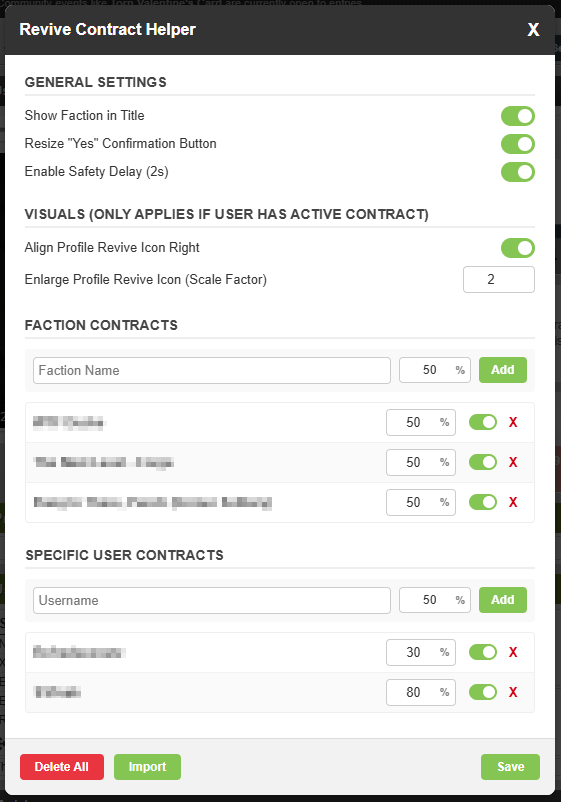
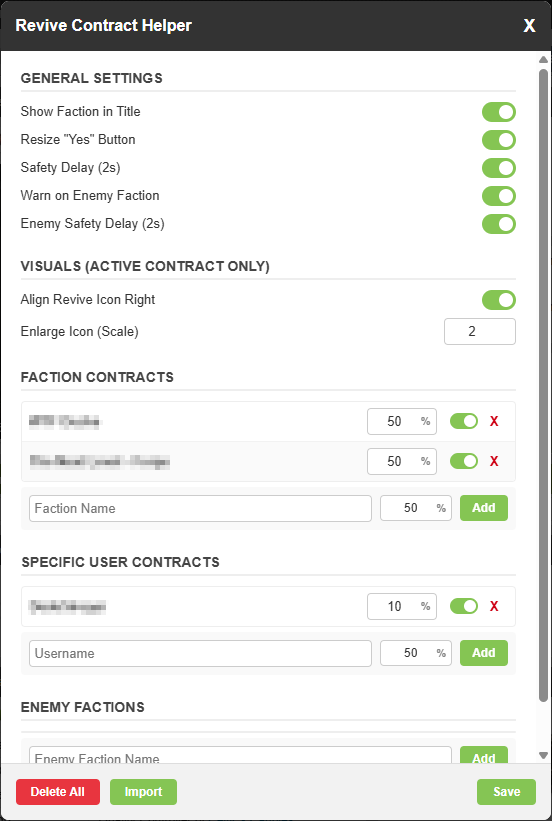
adds Enemys to Revive Contract Helper

Changed region(s): [[0.0, 0.0, 1.0, 1.0], [0.7391, 0.4364, 0.7699, 0.4676]]

diff --git a/revive-contract-helper/README.md b/revive-contract-helper/README.md
@@ -1,6 +1,6 @@
 # Revive Contract Helper (RCH)
 
-A Tampermonkey script for Torn designed for revivers. RCH helps you manage revive contracts, prevents accidental revives below the contracted percentage, and optimizes the UI for faster, misclick-free reviving.
+A Tampermonkey script for Torn designed for revivers. RCH helps you manage revive contracts, prevents accidental revives below the contracted percentage or on enemy targets, and optimizes the UI for faster, misclick-free reviving.
 
 ## Installation
 
@@ -9,16 +9,18 @@ A Tampermonkey script for Torn designed for revivers. RCH helps you manage reviv
 ## Features
 
 * **Smart Revive Protection:** Automatically hides the "Yes" button if the target's revive chance is below their contract limit or if early discharge is available.
-* **Granular Contracts:** Set specific minimum chances for entire Factions or individual Users (User contracts override Faction contracts).
+* **Enemy Detection:** Get warned before accidentally reviving members of an enemy faction with an optional safety delay to prevent fast-clicking mistakes.
+* **Granular Contracts:** Set specific minimum chances for entire Factions or individual Users (User contracts override Faction contracts). Track Enemy Factions to avoid reviving them.
 * **Speed-Optimized UI:** Optionally enlarge the Revive icon on profiles and the "Yes" confirmation button to make speed-clicking easier.
-* **Discord Import:** Mass-import weekly contracts directly from Discord announcements (specific message format required).
+* **Discord Import:** Mass-import weekly contracts directly from Discord announcements. The parser automatically detects both contracted factions and enemy factions.
 
 ## How It Works
 
-Once you add contracts in the settings, the script monitors the revive confirmation popup:
+Once you add contracts or enemies in the settings, the script monitors the revive confirmation popup:
 
 * **Valid Revive (Chance >= Contract):** The "No" button is hidden. The "Yes" button is enlarged (if enabled) so you can click blindly without missing.
 * **Invalid Revive (Chance < Contract):** The confirmation buttons are hidden and a warning is displayed.
+* **Enemy Detected:** If the target belongs to a faction on your Enemies list, a big "ENEMY FACTION DETECTED!" warning is displayed.
 
 ### Enlarged Profile Revive Icon
 You can choose to scale up the revive action icon directly on a player's profile and snap it to the right side. This visual boost only triggers if the player is part of an active contract, helping you spot and click valid targets instantly.
@@ -31,7 +33,7 @@ To speed up your reviving process, the script can resize the "Yes" confirmation 
 ![Giant Yes Button](img/bigger_yes_button.png)
 
 ### The Override Button
-If you hit a target below their contract but want to revive them anyway, you can click the **Override Contract** button. By default, this button has a **2-second safety delay** to prevent accidental double-clicks during fast reviving.
+If you hit a target below their contract (or an enemy) but want to revive them anyway, you can click the **Override Warning** button. By default, this button has a **2-second safety delay** to prevent accidental double-clicks during fast reviving.
 
 ![Revive Blocked Warning](img/revive_block_warning.png) 
 
@@ -45,15 +47,17 @@ To open the RCH settings, click the **red medical bag icon** in the top of any p
 ![Settings Modal](img/settings_modal.png)
 * **Show Faction in Title:** Copies the target's faction name directly under their username in the profile header. Click the text to quickly copy it.
 * **Resize "Yes" Confirmation Button:** Makes the "Yes" button huge when the revive is valid.
-* **Enable Safety Delay (2s):** Adds a 2-second cooldown to the Override button to prevent accidental misclicks.
+* **Enable Safety Delay (2s):** Adds a 2-second cooldown to the Override button to prevent accidental misclicks on contracted targets.
+* **Warn on Enemy Faction:** Displays a prominent warning if you try to revive someone from a faction on your Enemy list.
+* **Enemy Safety Delay (2s):** Adds an override button with a 2-second cooldown specifically when an enemy is detected.
 * **Align Profile Revive Icon Right:** Moves the revive action icon on the profile page to the far right of the button list. *(Note: Only applies if the target has an active contract).*
 * **Enlarge Profile Revive Icon (Scale Factor):** Increases the size of the revive icon on the profile. Default is `1` (off). Set to `3` or `4` to make it massive. *(Note: Only applies if the target has an active contract).*
 
-### Managing Contracts
+### Managing Contracts & Enemies
 
-You can add contracts for **Factions** or specific **Users**.
+You can add contracts for **Factions**, specific **Users**, or **Enemy Factions**.
 1. Enter the Faction Name or Username. (*Note: it's the name, not the ID!*)
-2. Enter the contracted chance.
+2. For Factions and Users, enter the contracted chance. (Enemies do not require a percentage).
 3. Click **Add**.
 4. Click the **Save** button to apply and save your changes.
 
@@ -73,12 +77,12 @@ Instead of adding factions one by one, you can import them directly from your Di
 ![Import View](img/import_contracts.png)  
 
 **Supported Formats Details:**
-The smart parser reads the text line by line and pairs a **Target Name** with a **Percentage**. If you use a different layout and have issues importing it, you can easily adapt your announcements or write a custom list. The parser looks for two components in order:
+The smart parser reads the text line by line and pairs a **Target Name** with a **Percentage**. It can also automatically detect enemy factions. The parser looks for two components in order:
 
-* **Step 1: The Name**
+* **Step 1: The Name & Enemy**
     * *Option A (Markdown):* Start the line with `## [` followed by the name. 
         *Example:* `## [Target Faction](https://www.torn.com/...)`
-    * *Option B (Plain Text):* Put the exact string ` vs ` right after the name. 
+    * *Option B (Plain Text with Enemy):* Put the exact string ` vs ` between the target and the enemy. The script will automatically add the first to your Faction list and the second to your Enemy list!
         *Example:* `Target Faction vs Enemy Faction`
 * **Step 2: The Percentage**
     * On a line *following* the name, the script looks for the word `Conditions:` (Markdown bolding like `**Conditions**:` is fully supported).
@@ -88,8 +92,5 @@ The smart parser reads the text line by line and pairs a **Target Name** with a 
 If you want to manually type up a quick import list, it just needs to look like this:
 
 ```text
-Target Faction vs Anyone
+Target Faction vs Enemy Faction
 Conditions: anything here .. 50%++
-
-Specific Player Name vs Anyone
-Conditions: .. 20%++
